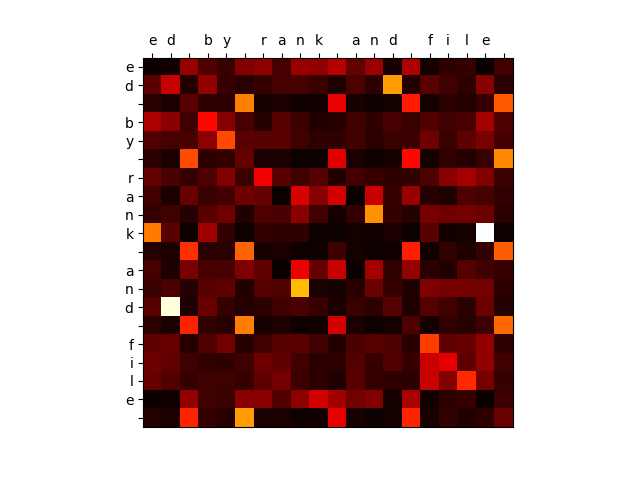
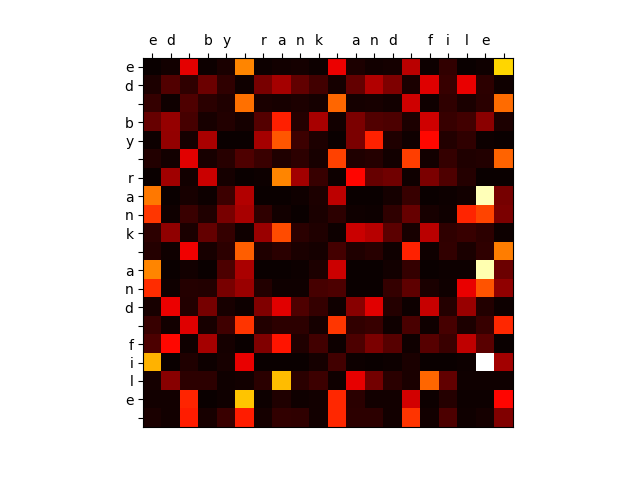
cleaned part 1

Changed region(s): [[0.2188, 0.125, 0.8125, 0.9062]]

diff --git a/transformer.py b/transformer.py
@@ -36,7 +36,7 @@ class Transformer(nn.Module):
         self.positional_encoding = PositionalEncoding(d_model, num_positions)
         self.layers = nn.ModuleList([TransformerLayer(d_model, d_internal) for _ in range(num_layers)])
         self.fc_out = nn.Linear(d_model, num_classes)
-        self.log_softmax = nn.LogSoftmax(dim=-1)
+        self.log_softmax = nn.Softmax(dim=-1) # -1 is the last dimension
     
     def forward(self, indices):
         # Step 1: Embed the input indices
@@ -66,32 +66,32 @@ class TransformerLayer(nn.Module):
     def __init__(self, d_model, d_internal):
         super().__init__()
         self.query_layer = nn.Linear(d_model, d_internal)  # [d_model, d_internal]
-        self.key_layer = nn.Linear(d_model, d_internal)    # [d_model, d_internal]
-        self.value_layer = nn.Linear(d_model, d_internal)  # [d_model, d_internal]
+        self.key_layer = nn.Linear(d_model, d_internal)
+        self.value_layer = nn.Linear(d_model, d_internal)
         self.d_internal = d_internal
 
-        self.linear1 = nn.Linear(d_internal, d_internal)  # Ensure this is from d_internal to d_internal
-        self.relu = nn.ReLU()
-        self.linear2 = nn.Linear(d_internal, d_model)      # Ensure this is from d_internal to d_model
+        self.linear1 = nn.Linear(d_internal, d_internal)
+        self.relu = nn.ReLU() # non-linearity
+        self.linear2 = nn.Linear(d_internal, d_model)
 
     def forward(self, input_vecs):
-        # Compute query, key, and value vectors
-        queries = self.query_layer(input_vecs)  # [batch_size, seq_len, d_internal]
-        keys = self.key_layer(input_vecs)        # [batch_size, seq_len, d_internal]
-        values = self.value_layer(input_vecs)    # [batch_size, seq_len, d_internal]
+        # Compute query, key, and value vectors of dim [batch_size, seq_len, d_internal]
+        queries = self.query_layer(input_vecs)
+        keys = self.key_layer(input_vecs)
+        values = self.value_layer(input_vecs)
 
-        # Transpose keys for attention calculation
-        keys = keys.transpose(-2, -1)  # [batch_size, d_internal, seq_len]
+        # Transpose keys matrix [batch_size, d_internal, seq_len]
+        keys = keys.transpose(-2, -1)
 
-        # Compute self-attention scores
-        scores = torch.matmul(queries, keys) / math.sqrt(self.d_internal)  # [batch_size, seq_len, seq_len]
-        attn_scores = torch.softmax(scores, dim=-1)  # [batch_size, seq_len, seq_len]
+        # Compute self-attention scores [batch_size, seq_len, seq_len]
+        scores = torch.matmul(queries, keys) / math.sqrt(self.d_internal)
+        attn_scores = torch.softmax(scores, dim=-1) # softmax the last dimension
 
-        # Apply attention scores to values
-        weighted_values = torch.matmul(attn_scores, values)  # [batch_size, seq_len, d_internal]
+        # Apply attention scores to values to output [batch_size, seq_len, d_internal]
+        weighted_values = torch.matmul(attn_scores, values)
 
-        # Feedforward layers
-        ff_out = self.linear2(self.relu(self.linear1(weighted_values)))  # [batch_size, seq_len, d_model]
+        # Feedforward layers to output [batch_size, seq_len, d_model]
+        ff_out = self.linear2(self.relu(self.linear1(weighted_values)))
         return ff_out, attn_scores
 
 
@@ -118,6 +118,9 @@ class PositionalEncoding(nn.Module):
         """
         # Second-to-last dimension will always be sequence length
         input_size = x.shape[-2]
+        # Use LongTensor when you need to store and manipulate integers, particularly for tasks like indexing or when 
+        # handling categorical data (e.g., labels in classification tasks). Use the default tensor (floating-point) for
+        # most mathematical and neural network operations, which typically involve floating-point computations.
         indices_to_embed = torch.tensor(np.asarray(range(0, input_size))).type(torch.LongTensor)
         if self.batched:
             # Use unsqueeze to form a [1, seq len, embedding dim] tensor -- broadcasting will ensure that this
@@ -130,10 +133,10 @@ class PositionalEncoding(nn.Module):
 
 # This is a skeleton for train_classifier: you can implement this however you want
 def train_classifier(args, train, dev):
-    model = Transformer(vocab_size=27, num_positions=20, d_model=64, d_internal=128, num_classes=3, num_layers=1)
+    model = Transformer(vocab_size=27, num_positions=20, d_model=64, d_internal=128, num_classes=3, num_layers=1) # 27 characters, 3 classes
     model.train()
     optimizer = optim.Adam(model.parameters(), lr=1e-4)
-    loss_fcn = nn.NLLLoss()
+    loss_fn = nn.NLLLoss()
 
     for epoch in range(10):
         total_loss = 0.0
@@ -144,7 +147,7 @@ def train_classifier(args, train, dev):
             log_probs, _ = model(example.input_tensor)
             
             # Compute loss
-            loss = loss_fcn(log_probs.squeeze(0), example.output_tensor)
+            loss = loss_fn(log_probs.squeeze(0), example.output_tensor)
             loss.backward()
             optimizer.step()
             
